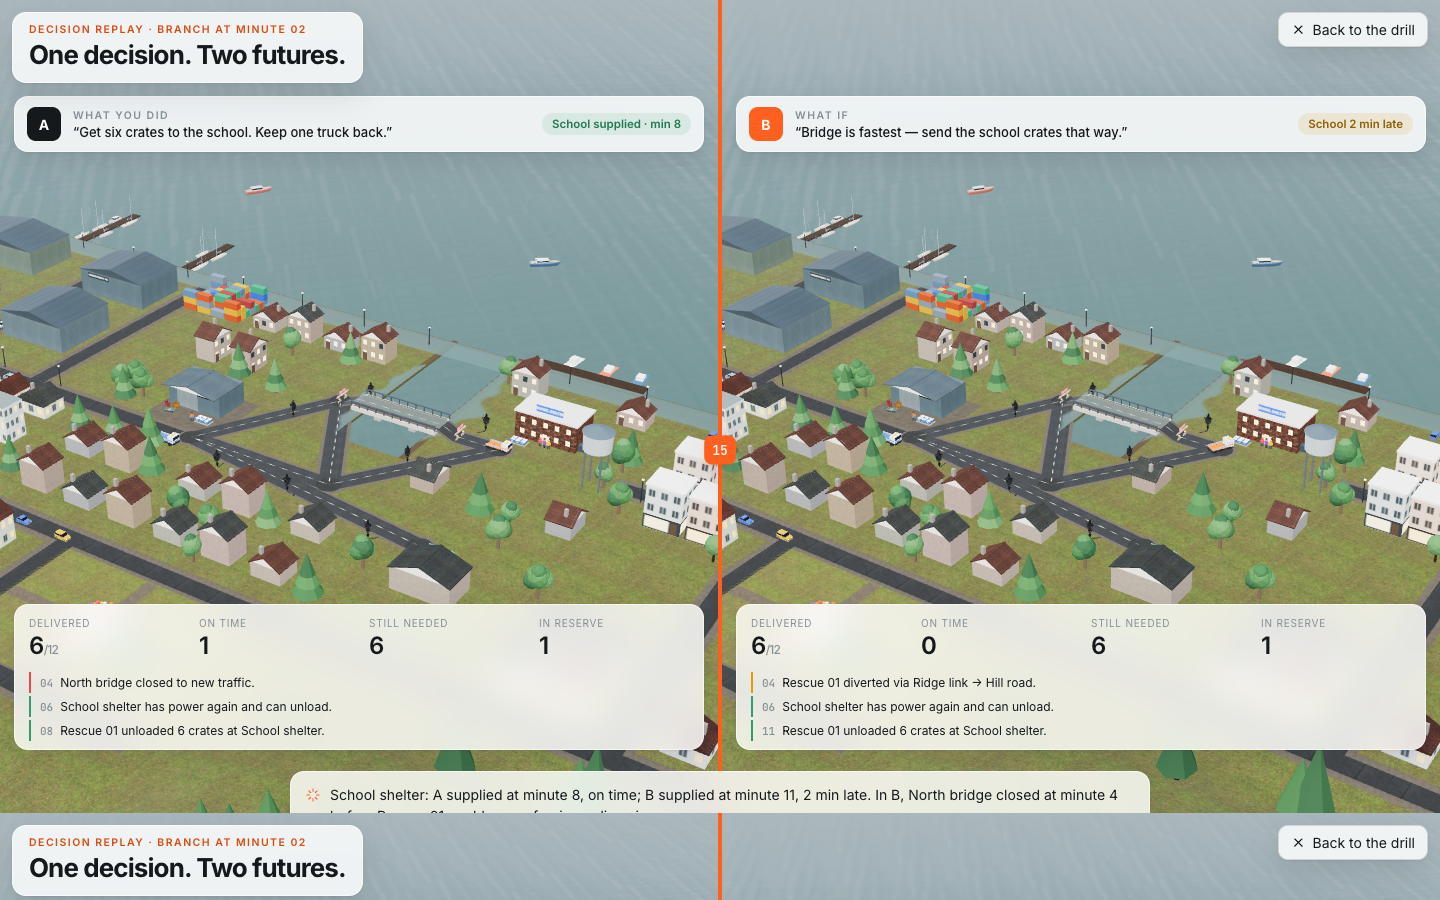
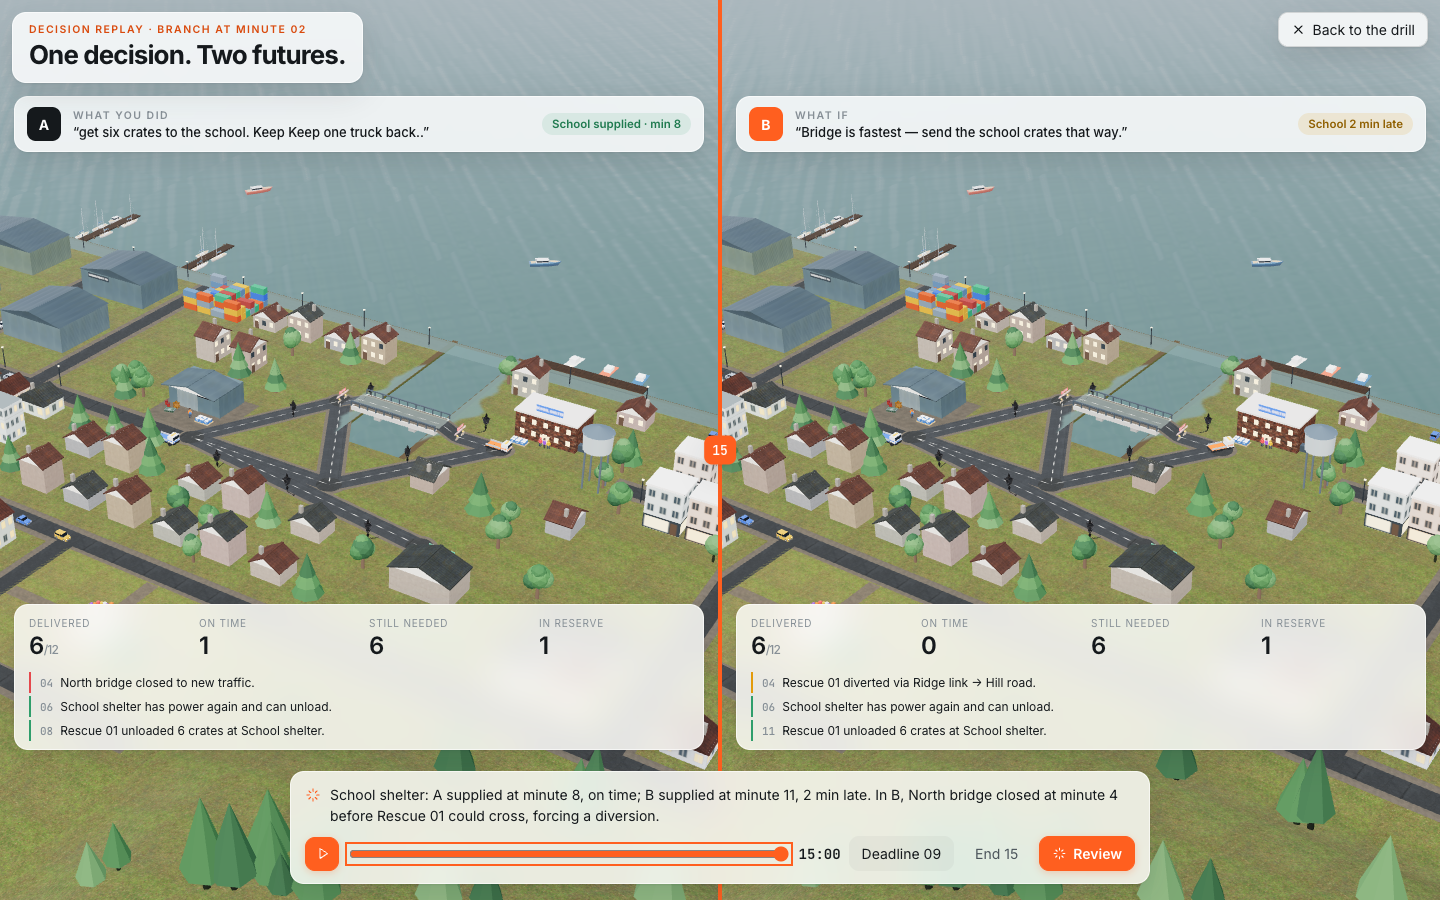
Use the settled desktop replay capture in rehearsal evidence

diff --git a/docs/production-browser-rehearsal.md b/docs/production-browser-rehearsal.md
@@ -41,7 +41,7 @@ Normal flows had no unexpected JavaScript errors. SwiftShader emitted GPU readba
 
 `npm run check`: **90 passing tests**, strict TypeScript checking and production build. Five new voice lifecycle tests cover cancelled recordings, delayed permission, delayed transcription, callback freshness and recording setup failure. The production function bundle was also built successfully. The CSS correction passed a subsequent production build/typecheck.
 
-Screenshots: [desktop replay](screenshots/production-rehearsal-replay.png), [phone replay](screenshots/production-rehearsal-mobile.png). The final phone check followed a fresh production reload and loaded `/assets/index-DhFrpGVo.css`; deadline/end/review controls all fit within 390 × 844, with the expected minute-8/minute-11 outcomes. Detailed local captures and CLI snapshots are under the ignored `output/playwright/rehearsal/` directory; synthetic audio and large request traces are not published.
+The desktop screenshot was captured on `496f246` before viewport resizing; the immediate post-resize capture had a headless compositor artifact and is not used. Screenshots: [desktop replay](screenshots/production-rehearsal-replay.png), [phone replay](screenshots/production-rehearsal-mobile.png). The final phone check followed a fresh production reload and loaded `/assets/index-DhFrpGVo.css`; deadline/end/review controls all fit within 390 × 844, with the expected minute-8/minute-11 outcomes. Detailed local captures and CLI snapshots are under the ignored `output/playwright/rehearsal/` directory; synthetic audio and large request traces are not published.
 
 ## Remaining human release steps
 
